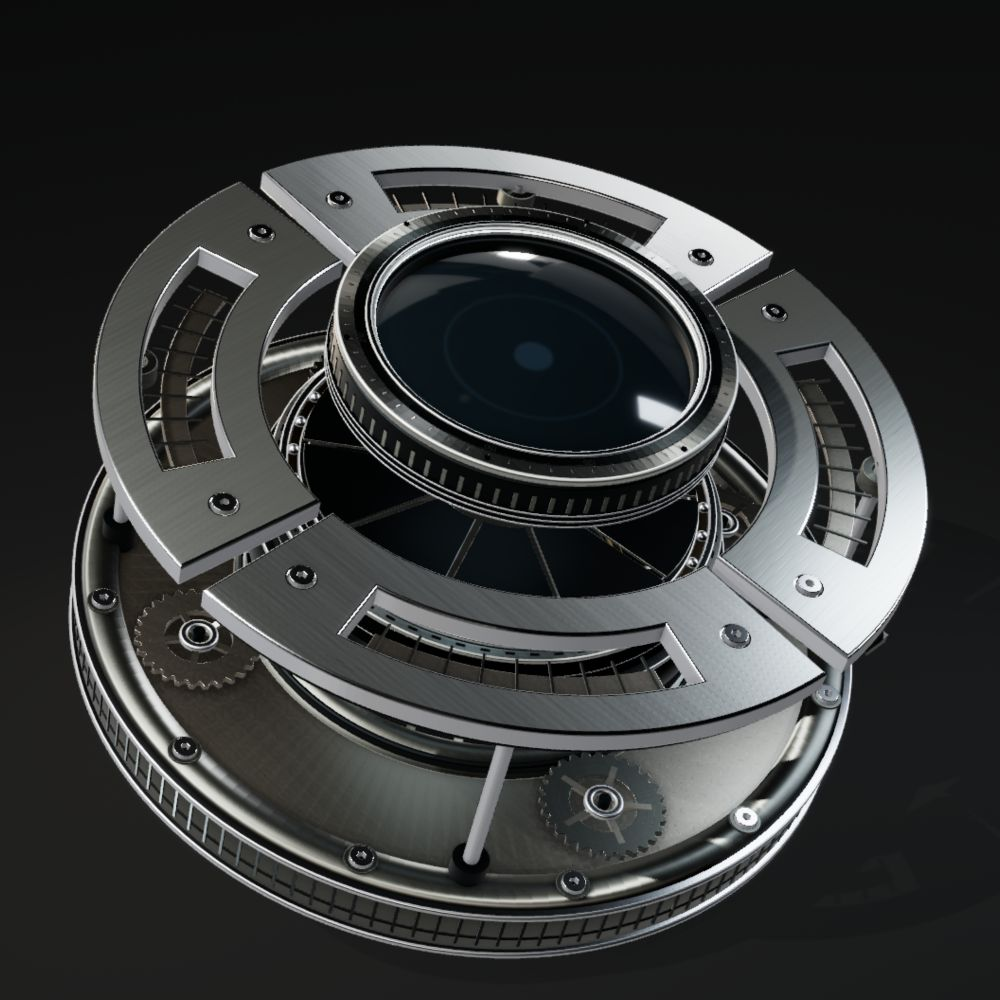
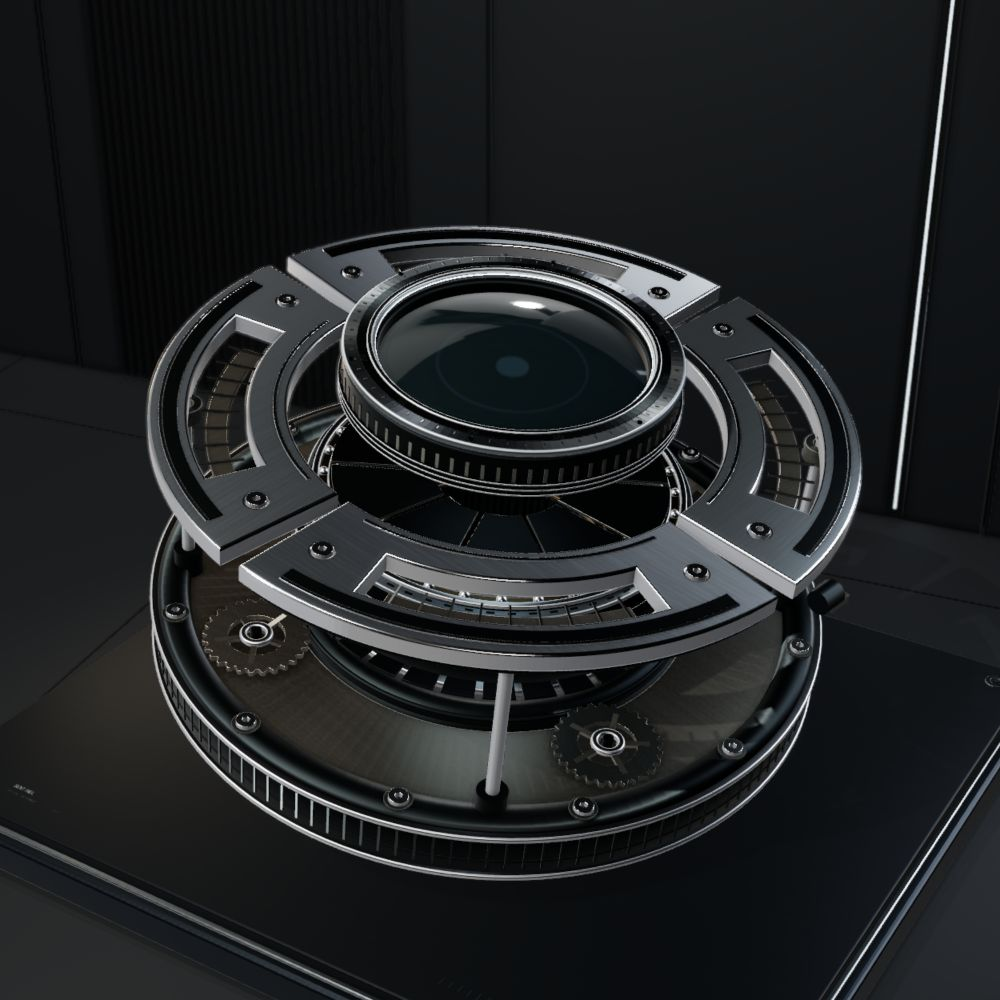
Stage the optical assembly in a machined studio environment

diff --git a/src/Sentinel.Api/wwwroot/sentinel-scene.js b/src/Sentinel.Api/wwwroot/sentinel-scene.js
@@ -138,6 +138,107 @@ function arcGeometry(inner, outer, start, end, height, bevel = .025) {
   return geometry;
 }
 
+function milledSlab(width, depth, height, radius, bevel=.02) {
+  const x=width/2,z=depth/2,r=radius,shape=new THREE.Shape();
+  shape.moveTo(-x+r,-z);shape.lineTo(x-r,-z);shape.quadraticCurveTo(x,-z,x,-z+r);
+  shape.lineTo(x,z-r);shape.quadraticCurveTo(x,z,x-r,z);
+  shape.lineTo(-x+r,z);shape.quadraticCurveTo(-x,z,-x,z-r);
+  shape.lineTo(-x,-z+r);shape.quadraticCurveTo(-x,-z,-x+r,-z);
+  const geometry=new THREE.ExtrudeGeometry(shape,{depth:height,bevelEnabled:true,bevelThickness:bevel,bevelSize:bevel,bevelSegments:3,steps:1,curveSegments:12});
+  geometry.rotateX(Math.PI/2);geometry.translate(0,height/2,0);
+  return geometry;
+}
+
+// A physical set gives the instrument a scale, contact shadow and a place to
+// sit. No background image or screen-space light streaks are composited here.
+function makeStudio() {
+  const root=new THREE.Group(),geometries=new Set(),textures=new Set();
+  const grain=surfaceTexture();textures.add(grain);
+  const materials={
+    floor:new THREE.MeshStandardMaterial({color:0x171c20,metalness:.18,roughness:.62,envMapIntensity:.18}),
+    wall:new THREE.MeshStandardMaterial({color:0x192126,metalness:.34,roughness:.57,envMapIntensity:.24}),
+    reveal:new THREE.MeshStandardMaterial({color:0x070b0e,metalness:.35,roughness:.65}),
+    edge:machinedMaterial({color:0x495860,metalness:1,roughness:.32,envMapIntensity:.7},grain,{style:1,strength:.5}),
+    base:machinedMaterial({color:0x252f36,metalness:.88,roughness:.34,envMapIntensity:.65},grain,{style:1,strength:.6}),
+    inset:machinedMaterial({color:0x11191e,metalness:.68,roughness:.45,envMapIntensity:.42},grain,{style:1,strength:.6}),
+    steel:machinedMaterial({color:0x8c979b,metalness:1,roughness:.23,envMapIntensity:.7},grain,{strength:.4}),
+    light:new THREE.MeshStandardMaterial({color:0xcbdde3,emissive:0xc0dce6,emissiveIntensity:.95,roughness:.6}),
+  };
+  function add(parent,geometry,material,position,shadow=false){
+    geometries.add(geometry);const object=new THREE.Mesh(geometry,material);
+    object.position.set(...position);object.castShadow=shadow;object.receiveShadow=true;parent.add(object);return object;
+  }
+  const floor=add(root,new THREE.PlaneGeometry(120,120),materials.floor,[0,-2.48,0]);floor.rotation.x=-Math.PI/2;
+  // Recessed wall panels and a strip diffuser live behind the focus plane.
+  // Their highlights continue onto the metal, rather than floating in the air.
+  add(root,new THREE.BoxGeometry(27,14,.3),materials.reveal,[0,3.5,-5.5]);
+  for(const x of [-9.8,-4.8,.2,5.2,10.2]){
+    add(root,new THREE.BoxGeometry(4.96,13,.18),materials.wall,[x,3.8,-5.28]);
+    add(root,new THREE.BoxGeometry(.018,13,.025),materials.edge,[x-2.45,3.8,-5.17]);
+  }
+  const ribs=new THREE.InstancedMesh(new THREE.BoxGeometry(.042,8,.11),materials.reveal,32);
+  geometries.add(ribs.geometry);const dummy=new THREE.Object3D();
+  for(let i=0;i<32;i++){dummy.position.set(-6.6+i*.11,1.6,-5.1);dummy.updateMatrix();ribs.setMatrixAt(i,dummy.matrix);}
+  ribs.instanceMatrix.needsUpdate=true;root.add(ribs);
+  add(root,new THREE.BoxGeometry(.14,5.8,.07),materials.reveal,[1.9,.5,-5.1]);
+  add(root,new THREE.BoxGeometry(.026,5.6,.012),materials.light,[1.9,.5,-5.045]);
+  const wallWash=new THREE.RectAreaLight(0xb3ccda,2.6,.14,5.6);
+  wallWash.position.set(1.9,.5,-4.99);wallWash.lookAt(0,-.5,0);root.add(wallWash);
+  // Oversized deck joints establish perspective without a decorative grid.
+  for(const x of [-8,-3.8,4.3])add(root,new THREE.BoxGeometry(.015,.005,26),materials.reveal,[x,-2.474,0]);
+  for(const z of [-3.9,3.7])add(root,new THREE.BoxGeometry(28,.005,.015),materials.reveal,[0,-2.474,z]);
+
+  const base=new THREE.Group();base.rotation.y=-.16;root.add(base);
+  add(base,milledSlab(6.5,5.65,.21,.20,.035),materials.base,[0,-2.28,0],true);
+  add(base,milledSlab(6.39,5.54,.035,.19,.012),materials.steel,[0,-2.146,0],true);
+  add(base,milledSlab(6.31,5.46,.07,.18,.016),materials.inset,[0,-2.075,0],true);
+  for(const x of [-2.65,2.65])for(const z of [-2.25,2.25])add(base,new THREE.CylinderGeometry(.18,.19,.10,24),materials.reveal,[x,-2.43,z],true);
+  // The lens rests on a ball seat, allowing the housing's small gimbal motion.
+  const profile=[[0,-2.03],[.87,-2.03],[.94,-1.98],[.94,-1.92],[.62,-1.87],[.54,-1.68],[0,-1.68]];
+  add(root,new THREE.LatheGeometry(profile.map(p=>new THREE.Vector2(...p)),96),materials.base,[0,0,0],true);
+  add(root,ringGeometry(.56,.69,.045,.008),materials.steel,[0,-1.82,0],true);
+  add(root,new THREE.SphereGeometry(.43,48,24),materials.inset,[0,-1.58,0],true);
+  for(const x of [-2.94,2.94])for(const z of [-2.52,2.52]){
+    add(base,ringGeometry(.041,.081,.022,.004),materials.steel,[x,-2.025,z],true);
+    add(base,new THREE.CylinderGeometry(.026,.026,.008,6),materials.reveal,[x,-2.018,z]);
+  }
+  // A small physical maker's plate and fine indexing cuts on the deck edge.
+  const canvas=document.createElement('canvas');canvas.width=1024;canvas.height=128;
+  const ctx=canvas.getContext('2d');ctx.fillStyle='#a5b3ba';ctx.font='500 29px monospace';
+  ctx.fillText('SENTINEL',36,52);ctx.fillStyle='#6d7b82';ctx.font='18px monospace';ctx.fillText('OPTICAL INSTRUMENT     /     S—01',36,88);
+  const plateMap=new THREE.CanvasTexture(canvas);plateMap.colorSpace=THREE.SRGBColorSpace;plateMap.anisotropy=8;textures.add(plateMap);
+  materials.plate=new THREE.MeshStandardMaterial({map:plateMap,transparent:true,depthWrite:false,roughness:.65,metalness:.25});
+  const plate=add(base,new THREE.PlaneGeometry(1.68,.21),materials.plate,[-1.75,-2.021,2.48]);plate.rotation.x=-Math.PI/2;
+  const cuts=new THREE.InstancedMesh(new THREE.BoxGeometry(.008,.004,.065),materials.edge,19);geometries.add(cuts.geometry);
+  for(let i=0;i<19;i++){dummy.position.set(1.13+i*.067,-2.025,2.49);dummy.updateMatrix();cuts.setMatrixAt(i,dummy.matrix);}
+  cuts.instanceMatrix.needsUpdate=true;base.add(cuts);
+  // Batch the fixed set by finish. Keep turned steel in object space so its
+  // radial machining still follows each fastener's own centre.
+  root.updateMatrixWorld(true);
+  const batches=new Map();
+  root.traverse(object=>{
+    if(!object.isMesh||object.isInstancedMesh||object.material===materials.steel||object.material.transparent)return;
+    const key=object.material.uuid+String(object.castShadow);
+    if(!batches.has(key))batches.set(key,[]);batches.get(key).push(object);
+  });
+  for(const objects of batches.values()){
+    if(objects.length<2)continue;
+    const pieces=objects.map(object=>{
+      const geometry=object.geometry.index?object.geometry.toNonIndexed():object.geometry.clone();
+      return geometry.applyMatrix4(object.matrixWorld);
+    });
+    const geometry=new THREE.BufferGeometry();
+    for(const name of ['position','normal','uv']){
+      const count=pieces.reduce((total,piece)=>total+piece.getAttribute(name).array.length,0),array=new Float32Array(count);
+      let offset=0;for(const piece of pieces){const source=piece.getAttribute(name).array;array.set(source,offset);offset+=source.length;}
+      geometry.setAttribute(name,new THREE.BufferAttribute(array,name==='uv'?2:3));
+    }
+    add(root,geometry,objects[0].material,[0,0,0],objects[0].castShadow);
+    objects.forEach(object=>object.removeFromParent());pieces.forEach(piece=>piece.dispose());
+  }
+  return {root,dispose(){geometries.forEach(g=>g.dispose());textures.forEach(t=>t.dispose());Object.values(materials).forEach(m=>m.dispose());root.traverse(o=>{if(o.isInstancedMesh)o.dispose();});}};
+}
+
 function studioEnvironment(renderer) {
   const studio = new THREE.Scene();
   studio.background = new THREE.Color(.006, .009, .014);
@@ -189,14 +290,14 @@ function makeModel() {
   const grain=surfaceTexture();textures.add(grain);
   const materials={
     body:machinedMaterial({color:0x666965,metalness:1,roughness:.31,anisotropy:.35,envMapIntensity:1.0},grain,{strength:.65}),
-    face:machinedMaterial({color:0xb2b8b6,metalness:1,roughness:.27,anisotropy:.48,envMapIntensity:1.05},grain,{style:1,strength:.95}),
+    face:machinedMaterial({color:0x909ba1,metalness:1,roughness:.29,anisotropy:.48,envMapIntensity:1.05},grain,{style:1,strength:.8}),
     edge:machinedMaterial({color:0xc5cbd0,metalness:1,roughness:.16,envMapIntensity:1.15},grain,{strength:.35}),
     bore:machinedMaterial({color:0x242b2d,metalness:1,roughness:.37,anisotropy:.18},grain,{strength:.55}),
     nickel:machinedMaterial({color:0x999187,metalness:1,roughness:.29,anisotropy:.38},grain,{style:2,strength:.72}),
     ceramic:new THREE.MeshPhysicalMaterial({color:0x080c10,metalness:.25,roughness:.27,clearcoat:.24,clearcoatRoughness:.18}),
     rubber:new THREE.MeshStandardMaterial({color:0x080b0e,roughness:.76,metalness:0}),
     copper:machinedMaterial({color:0x786249,metalness:1,roughness:.3},grain,{strength:.55}),
-    glass:new THREE.MeshPhysicalMaterial({color:0x102329,metalness:0,roughness:.09,envMapIntensity:.24,clearcoat:1,clearcoatRoughness:.06,transmission:.38,thickness:.18,ior:1.52}),
+    glass:new THREE.MeshPhysicalMaterial({color:0x14272a,metalness:0,roughness:.07,envMapIntensity:.32,clearcoat:1,clearcoatRoughness:.05,transmission:.38,thickness:.18,ior:1.52,iridescence:.12,iridescenceIOR:1.3,iridescenceThicknessRange:[180,260]}),
     emitter:new THREE.MeshStandardMaterial({color:0xe9f6ff,emissive:0xc3eaff,emissiveIntensity:5.0,roughness:.32,metalness:0}),
     seam:new THREE.MeshStandardMaterial({color:0xcfecf5,emissive:0x80c6df,emissiveIntensity:1.9,roughness:.36,metalness:0}),
     status:new THREE.MeshStandardMaterial({color:0xbee9ff,emissive:0x73c9ed,emissiveIntensity:2.6,roughness:.25}),
@@ -272,7 +373,8 @@ function makeModel() {
   // legible as manufactured parts. Finishes follow those parts' functions.
   const chassis=new THREE.Group();root.add(chassis);chassis.position.y=-1.08;
   const caseProfile=[[1.18,-.30],[2.20,-.30],[2.31,-.26],[2.38,-.18],[2.38,.16],[2.32,.22],[2.16,.22],[2.12,.10],[1.47,.10],[1.41,.24],[1.18,.24],[1.18,-.30]];
-  mesh(chassis,new THREE.LatheGeometry(caseProfile.map(p=>new THREE.Vector2(...p)),160),materials.body);
+  mesh(chassis,new THREE.LatheGeometry(caseProfile.map(p=>new THREE.Vector2(...p)),160),materials.bore);
+  ring(chassis,.38,1.25,.10,-.315,materials.bore);
   ring(chassis,2.30,2.415,.045,-.20,materials.edge);
   ring(chassis,2.33,2.415,.045,.155,materials.edge);
   ring(chassis,2.33,2.386,.025,-.07,materials.rubber);
@@ -294,6 +396,10 @@ function makeModel() {
     const pivot=new THREE.Group();cover.add(pivot);pivot.rotation.y=i/4*TAU;
     const panel=new THREE.Group();pivot.add(panel);
     mesh(panel,quarter,[materials.face,materials.edge]);
+    // Inset black lands separate broad satin faces from the polished bevels.
+    mesh(panel,arcGeometry(2.19,2.28,.15,Math.PI/2-.15,.007,.002),materials.bore,0,.078);
+    mesh(panel,arcGeometry(1.545,1.564,.17,Math.PI/2-.17,.009,.002),materials.edge,0,.079);
+    mesh(panel,arcGeometry(2.288,2.305,.15,Math.PI/2-.15,.008,.002),materials.edge,0,.079);
     mesh(panel,arcGeometry(2.24,2.34,.075,Math.PI/2-.075,.035,.008),materials.bore,0,-.094);
     mesh(panel,arcGeometry(1.52,1.61,.055,Math.PI/2-.055,.025,.005),materials.bore,0,-.078);
     // An inset bridge and transverse ribs sit below the machined opening.
@@ -409,7 +515,7 @@ function makeModel() {
     const target=view==='exploded'?1:view==='assembled'?0:cycleProgress(time);
     travel=snap?{position:target,velocity:0}:advanceTravel(travel,target,delta);
     const pose=mechanicalPose(travel.position);
-    root.rotation.set(.08+pointer.y*.035,-.38+pointer.x*.075,-.31);
+    root.rotation.set(.08+pointer.y*.022,-.38+pointer.x*.045,-.16);
     cover.position.y=-.62+pose.cover*.17+pose.lift*1.03;
     cartridge.position.y=-.63+pose.carrier*.47;
     optic.position.y=-.31+pose.lift*.19+pose.optic*1.10;
@@ -516,14 +622,14 @@ function createFinish(renderer) {
         vec3 position=viewPosition(vUv);
         float occlusion=contactShade(position);
         color*=occlusion;
-        float blur=min(abs(depth-uFocus)*.12,1.0)*uQuality;
+        float blur=min(max(depth-uFocus-1.8,0.0)*.48+abs(min(depth-uFocus,0.0))*.12,3.0)*uQuality;
         if(blur>.18){
           vec3 b=vec3(0.0);
           for(int i=0;i<6;i++){
             float a=float(i)*1.047198;
             b+=texture2D(tColor,vUv+vec2(cos(a),sin(a))*uPixel*blur).rgb;
           }
-          color=mix(color,b/6.0*occlusion,.25);
+          color=mix(color,b/6.0*occlusion,.55);
         }
         // Clear studio air: light is visible on surfaces. Keep just a narrow
         // optical fringe at very bright edges, without an added light cone.
@@ -572,7 +678,7 @@ export async function createMechanismScene(element, {still=false} = {}) {
   const canvas = document.createElement("canvas");
   canvas.className = "mechanism-canvas";
   canvas.setAttribute("aria-hidden", "true");
-  let renderer, model, environment, resizeObserver, finish;
+  let renderer, model, studio, environment, resizeObserver, finish;
   let frame=0, running=false, failed=false, destroyed=false, ready=false, elapsed=still ? 10 : 4.8, last=0, lastPaint=0, frames=0;
   let view="auto", width=1, height=1, narrow=false, displayedState;
   const pointer = {x:0,y:0}, targetPointer = {x:0,y:0};
@@ -581,8 +687,6 @@ export async function createMechanismScene(element, {still=false} = {}) {
   scene.background=new THREE.Color(0x090c10);
   scene.fog=new THREE.FogExp2(0x090c10,.024);
   const camera = new THREE.PerspectiveCamera(36,1,.1,80);
-  const shadowGeometry = new THREE.PlaneGeometry(200,200);
-  const shadowMaterial = new THREE.MeshStandardMaterial({color:0x030506,metalness:.08,roughness:.88,envMapIntensity:.08});
   function removeListeners() {
     element.removeEventListener("pointermove", movePointer);
     element.removeEventListener("pointerleave", leavePointer);
@@ -596,9 +700,9 @@ export async function createMechanismScene(element, {still=false} = {}) {
     cancelAnimationFrame(frame);
     removeListeners();
     model?.dispose();
+    studio?.dispose();
     environment?.dispose();
     finish?.dispose();
-    shadowGeometry.dispose(); shadowMaterial.dispose();
     renderer?.dispose();
     canvas.remove();
   }
@@ -622,8 +726,8 @@ export async function createMechanismScene(element, {still=false} = {}) {
     pointer.y=THREE.MathUtils.damp(pointer.y,targetPointer.y,3,delta);
     const expansion=model.update(elapsed,delta,view,pointer,snap);
     if(hero && !narrow){
-      camera.position.set(3.3+Math.sin(elapsed*.055)*.06+pointer.x*.12,4.6+expansion*.30,8.4+expansion*.62);
-      camera.lookAt(1.45,-.10+expansion*.27,0);
+      camera.position.set(3.9+Math.sin(elapsed*.055)*.04+pointer.x*.12,4.5+expansion*.22,10.6+expansion*.32);
+      camera.lookAt(1.55,-.28+expansion*.15,0);
     }
     renderer.info.reset();
     finish.render(scene,camera,elapsed,model.focusPoint());
@@ -696,7 +800,7 @@ export async function createMechanismScene(element, {still=false} = {}) {
     if(!areaLightsReady){RectAreaLightUniformsLib.init();areaLightsReady=true;}
     scene.add(new THREE.HemisphereLight(0xb7c9db,0x030609,.12));
     // Broad softboxes give the machined faces a continuous reflected highlight.
-    const softbox=new THREE.RectAreaLight(0xf3f0e9,12,5,6);
+    const softbox=new THREE.RectAreaLight(0xf3f0e9,10,5,6);
     softbox.position.set(-3,6,4);softbox.lookAt(0,0,0);scene.add(softbox);
     const strip=new THREE.RectAreaLight(0xc4d6e1,19,.7,5);
     strip.position.set(4,2,-3);strip.lookAt(0,0,0);scene.add(strip);
@@ -710,8 +814,7 @@ export async function createMechanismScene(element, {still=false} = {}) {
     key.shadow.normalBias=.012;key.shadow.bias=-.00010;key.shadow.radius=3;
     scene.add(key);
     model=makeModel(); scene.add(model.root);
-    const shadow=new THREE.Mesh(shadowGeometry,shadowMaterial);
-    shadow.rotation.x=-Math.PI/2; shadow.position.y=-2.25; shadow.receiveShadow=true; scene.add(shadow);
+    studio=makeStudio();scene.add(studio.root);
     finish=createFinish(renderer);
     element.append(canvas);
     resize();

diff --git a/src/Sentinel.Api/wwwroot/login.css b/src/Sentinel.Api/wwwroot/login.css
@@ -10,13 +10,13 @@ button:focus-visible,a:focus-visible{outline:2px solid #afd9ee;outline-offset:5p
 .wordmark{display:flex;align-items:center;gap:13px;width:fit-content}.wordmark svg{width:27px;height:27px;color:#bcc8cf}.wordmark>span{font-size:12px;font-weight:600;letter-spacing:.15em}.wordmark i{height:12px;width:1px;background:#64666580;margin-inline:3px}.wordmark small{font:8px var(--mono);letter-spacing:.14em;color:#88969f}
 .access-classification{display:flex;gap:10px;align-items:center;font:8px var(--mono);letter-spacing:.13em;color:#9a9d9c}.access-classification i{width:4px;height:4px;border:1px solid #91b7ca;transform:rotate(45deg)}
 .identity-panel{position:absolute;inset:0 38% 0 0;pointer-events:none}
-.identity-title{position:absolute;left:48px;top:112px}.identity-title>p{margin:0 0 12px;font:8px var(--mono);letter-spacing:.22em;color:#94a9b7}.identity-title h1{font-size:clamp(72px,7.9vw,122px);line-height:1;letter-spacing:-.065em;font-weight:400;margin:0;color:#edf0f2;text-shadow:0 2px 30px #0003}.identity-title h1>span{display:block;margin-top:14px;padding-left:4px;font:11px var(--font);letter-spacing:.03em;color:#b3b5b5}
+.identity-title{position:absolute;left:48px;top:112px}.identity-title>p{margin:0 0 14px;font:8px var(--mono);letter-spacing:.22em;color:#94a9b7}.identity-title h1{font-size:clamp(72px,7.2vw,108px);line-height:1;letter-spacing:-.06em;font-weight:400;margin:0;color:#edf0f2;text-shadow:0 2px 30px #0003}.identity-title h1>span{display:block;margin-top:16px;padding-left:4px;font:11px var(--font);letter-spacing:.03em;color:#b3b5b5}
 .identity-caption{position:absolute;left:52px;bottom:118px;text-shadow:0 2px 12px #000}.caption-rule{display:block;width:28px;height:1px;background:#86adbf;margin-bottom:17px}.identity-caption p{font-size:clamp(18px,1.65vw,25px);line-height:1.55;font-weight:400;letter-spacing:-.055em;margin:0 0 11px}.identity-caption small{font-size:10px;color:#aaaeb0;letter-spacing:.02em}
 .identity-panel>.scene-controls{position:absolute;left:48px;bottom:61px;pointer-events:auto;display:flex;align-items:center;gap:19px;padding:0;border:0;border-radius:0;background:none;box-shadow:none;justify-content:flex-start}
 .identity-panel>.scene-controls [data-core-view]{position:relative;padding:12px 0;background:none;border:0;border-radius:0;font:10px var(--font);color:#9ca4a8;line-height:1.4;box-shadow:none;white-space:nowrap}.identity-panel>.scene-controls [data-core-view]>span{font:8px var(--mono);color:#64747e;margin-right:6px}.identity-panel>.scene-controls [data-core-view][aria-pressed=true]{color:#dbeef8;background:none;box-shadow:none}.identity-panel>.scene-controls [data-core-view][aria-pressed=true]:after{content:"";position:absolute;left:0;right:0;bottom:5px;height:1px;background:#8ebcd0}.identity-panel>.scene-controls .motion-toggle{margin-left:7px;padding-left:17px;border-left:1px solid #65707850}
 .motion-toggle{display:flex;align-items:center;gap:6px;background:none;border:0;color:#929b9f;padding:9px 0;font:7px var(--mono);letter-spacing:.06em;white-space:nowrap}.motion-toggle svg{width:11px;height:11px}.motion-toggle:hover{color:#e3f3fa}
 .login-panel{position:relative;margin-left:auto;margin-right:clamp(48px,5.1vw,110px);height:100%;width:348px;display:flex;align-items:center;padding-block:115px 100px}
-.login-content{width:100%;position:relative;padding-top:20px}.login-content:before{content:"";position:absolute;left:0;top:0;width:100%;height:1px;background:linear-gradient(90deg,#94bed14f,#94bed110)}
+.login-content{width:100%;position:relative;padding-top:20px}.login-content:before{content:"";position:absolute;left:0;top:0;width:100%;height:1px;background:linear-gradient(90deg,#acbdc657,#94bed110)}
 .access-label{display:flex;justify-content:space-between;font:8px var(--mono);letter-spacing:.12em;color:#8d9da7;margin-bottom:29px}
 .login-heading{position:relative}.login-content h2{font-size:32px;font-weight:450;line-height:1.35;letter-spacing:-.05em;margin:0 0 13px}.login-description{font-size:13px;line-height:1.8;color:#939da3;margin:0 0 35px}
 form label{display:flex;align-items:center;justify-content:space-between;margin:0 0 9px;font-size:12px;color:#b5c0c7}form label>span{font:7px var(--mono);letter-spacing:.10em;color:#697982}
